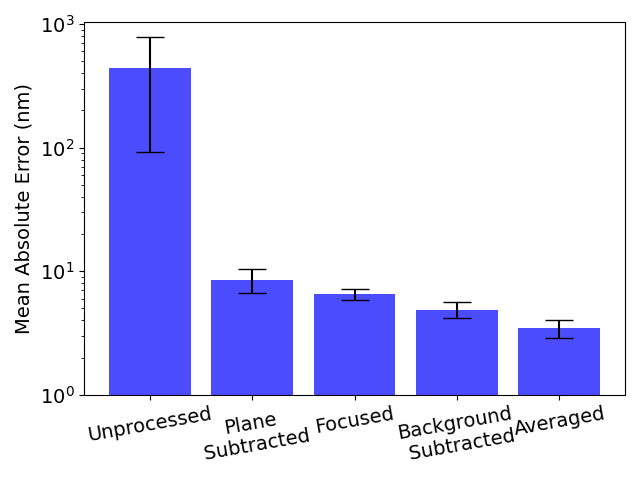
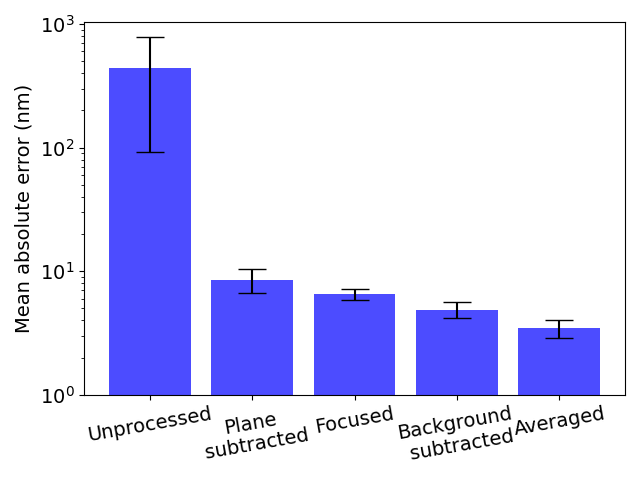
update images

Changed region(s): [[0.0, 0.1562, 0.0625, 0.7188], [0.625, 0.875, 0.8125, 0.9688], [0.3125, 0.875, 0.5, 0.9688]]

diff --git a/Graphes_Images/src/plot_results_segmentation.py b/Graphes_Images/src/plot_results_segmentation.py
@@ -9,6 +9,7 @@ import matplotlib.pyplot as plt
 import numpy as np
 import tifffile
 from skimage.morphology import binary_dilation
+from skimage.registration import phase_cross_correlation
 import json
 import cv2
 
@@ -59,10 +60,12 @@ for e in range(len(experiment_names)):
                 
                 mean_bac.append(np.mean(image_unfocused_flattened[mask])*794/(2*np.pi))
                 points_bac.append(len(mask[mask==True]))
-
+        print(f'start {i}')
+# mean(mae_unflattend) = 437.5763142363454 (348.1224687131989), mean(mae_flattend) = 6.555890270638546 (0.6622838564051792)
 #%%
 ######################## flatten image ######################
-filename = 'F3_20230406_2023-04-06 11-07-24_00002_00003_00002_Holograms_00050_holo.tif'
+filename = 'F3_20230406_2023-04-06 11-07-24_00001_00001_00001_Holograms_00050_holo.tif'
+
 image_uu = tifffile.imread(base_dir + os.sep + 'unfocused_unflattened' + os.sep + filename)*794/(2*np.pi)
 image_uf = tifffile.imread(base_dir + os.sep + 'unfocused_flattened' + os.sep + filename)*794/(2*np.pi)
 plot_dif(image_uu, image_uf)
@@ -70,8 +73,8 @@ plot_dif(image_uu, image_uf)
 #%%
 ######################## focus point numerical analysis #######################
 focus_offsets = []
-mean_difs = []
-std_difs = []
+difs_bacteria = []
+mea_difs_pixels = []
 mean_bac = []
 points_bac = []
 data_file_dir = r'F:\test_images\data_files'
@@ -102,10 +105,12 @@ for e in range(len(experiment_names)):
                 image_focused_flattened = tifffile.imread(base_dir + os.sep + 'focused_flattened' + os.sep + filename)
                 dif = (image_focused_flattened-image_unfocused_flattened)[mask]*794/(2*np.pi)
                 points_bac.append(len(dif))
-                std_difs.append(np.std(dif))
-                mean_difs.append(np.mean(dif))
-                mean_bac.append(np.mean(image_focused_flattened[mask]))
+                mea_difs_pixels.append(np.mean(np.abs(dif)))
+                difs_bacteria.append(np.mean(dif))
+                mean_bac.append(np.mean(image_focused_flattened[mask])*794/(2*np.pi))
         print(f'position {i} done')
+# np.mean(np.abs(focus_offsets)) = 0.06565876676394965 (0.06526685939550575), np.mean(np.abs(difs_bacteria)) = 0.3241210041515854 ( 0.782255995976346)
+# np.mean(mea_difs_pixels) = 1.9647389743949002 (1.7299677011264283), np.mean(mean_bac) = 26.92346201646424 (3.354683722592203)
 #%%
 ######################## focus point image ######################
 # Extreme example of focus offset
@@ -145,9 +150,11 @@ for e in range(len(experiment_names)):
                 
                 mean_bac.append(np.mean(image_without_background[mask])*794/(2*np.pi))
                 points_bac.append(len(mask[mask==True]))
+# np.mean(mae_ff) = 6.555953083727898 (0.6619066701507784), np.mean(mae_wb) = 4.890570396629716 (0.7166991405623114)
+
 #%%
 ######################## background image ######################
-filename = 'F3_20230406_2023-04-06 11-07-24_00007_00003_00003_Holograms_00000_holo.tif'
+filename = 'F3_20230406_2023-04-06 11-07-24_00001_00001_00001_Holograms_00050_holo.tif'
 
 image_without_background = tifffile.imread(base_dir + os.sep + 'without_background' + os.sep + filename)*794/(2*np.pi)
 image_ff = tifffile.imread(base_dir + os.sep + 'focused_flattened' + os.sep + filename)*794/(2*np.pi)
@@ -155,8 +162,8 @@ plot_dif(image_ff, image_without_background, cbar_title_dist=-105)
 
 #%%
 ######################## averaging numerical analysis #######################
-mean_difs = []
-mae_difs = []
+mae_wb_a = []
+mae_a = []
 mean_bac = []
 points_bac = []
 data_file_dir = r'F:\test_images\data_files'
@@ -179,21 +186,56 @@ for e in range(len(experiment_names)):
             image_averaged = tifffile.imread(base_dir + os.sep + 'averaged' + os.sep + filename_averaged)
             mask = image_averaged>0.25
             mask = binary_dilation(binary_dilation(binary_dilation(mask)))
+            avg = image_averaged[~mask]
             
-            image_wb = tifffile.imread(base_dir + os.sep + 'without_background' + os.sep + filename_unaveraged)[10:710,90:790]
-
-            dif = (image_averaged-image_wb)[mask]*794/(2*np.pi)
-            points_bac.append(len(dif))
-            mae_difs.append(np.mean(np.abs(dif)))
-            mean_difs.append(np.mean(dif))
-            mean_bac.append(np.mean(image_averaged[mask])*794/(2*np.pi))
+            image_without_background = tifffile.imread(base_dir + os.sep + 'without_background' + os.sep + filename_unaveraged)
+            shift_measured, error, diffphase = phase_cross_correlation(image_without_background[:700,:700], image_averaged)
+            if shift_measured[1]>100 or shift_measured[0]<0:
+                continue
+            image_without_background = image_without_background[int(shift_measured[0]):int(shift_measured[0])+700, int(shift_measured[1]):int(shift_measured[1])+700]
+            wb = image_without_background[~mask]
+            
+            mae_wb_a.append(np.mean(np.abs(wb-np.zeros_like(wb)))*794/(2*np.pi))
+            mae_a.append(np.mean(np.abs(avg-np.zeros_like(avg)))*794/(2*np.pi))
+            
+            mean_bac.append(np.mean(image_without_background[mask])*794/(2*np.pi))
+            points_bac.append(len(mask[mask==True]))
         print(f'position {i} done')
-
+# np.mean(mae_wb_a) = 5.062496793793493 (0.5678454313757011), np.mean(mae_a) = 3.441808529258636 (0.5794835287190342)
 #%%
 ######################## background image ######################
-filename_unaveraged = 'F3_20230406_2023-04-06 11-07-24_00001_00001_00001_Holograms_00075_holo.tif'
-filename_averaged = 'F3_20230406_2023-04-06 11-07-24_00001_00005_00005_Holograms_00075_holo.tif'
+filename_unaveraged = 'F3_20230406_2023-04-06 11-07-24_00001_00001_00001_Holograms_00050_holo.tif'
+filename_averaged = 'F3_20230406_2023-04-06 11-07-24_00001_00005_00005_Holograms_00050_holo.tif'
 
-image_without_background = tifffile.imread(base_dir + os.sep + 'without_background' + os.sep + filename_unaveraged)[10:710,90:790]*794/(2*np.pi)
+image_without_background = tifffile.imread(base_dir + os.sep + 'without_background' + os.sep + filename_unaveraged)*794/(2*np.pi)
 image_averaged = tifffile.imread(base_dir + os.sep + 'averaged' + os.sep + filename_averaged)*794/(2*np.pi)
+shift_measured, error, diffphase = phase_cross_correlation(image_without_background[:700,:700], image_averaged)
+image_without_background = image_without_background[int(shift_measured[0]):int(shift_measured[0])+700, int(shift_measured[1]):int(shift_measured[1])+700]
 plot_dif(image_without_background, image_averaged, cbar_title_dist=-105)
+
+#%%
+
+import matplotlib.pyplot as plt
+import numpy as np
+
+# Data
+labels = ['Unprocessed', 'Plane\n subtracted', 'Focused', 'Background\n subtracted', 'Averaged']
+mae_values = [439.5410532107403, 8.520692058122798, 6.555953083727898, 4.890570396629716, 3.441808529258636]
+std_values = [348.12676715705027, 1.852271223911539, 0.6619066701507784, 0.7166991405623114, 0.5794835287190342]
+
+# Create bar chart
+x_pos = np.arange(len(labels))
+plt.bar(x_pos, mae_values, yerr=std_values, align='center', alpha=0.7, capsize=10, color='blue')
+
+# Set y-axis to be logarithmic
+plt.yscale('log')
+
+plt.yticks([1, 10, 100, 1000], fontsize=14)
+# Add labels and title
+plt.xticks(x_pos, labels, rotation=10, fontsize=14)
+plt.ylabel('Mean absolute error (nm)', fontsize=14)
+# plt.title('Decrease in Noise Level Across Processing Steps')
+
+# Display the plot
+plt.tight_layout()
+plt.show()

diff --git a/src/delta/train_seg.py b/src/delta/train_seg.py
@@ -7,6 +7,7 @@ import os
 
 import sys
 from pathlib import Path
+import pickle
 
 from tensorflow.keras.callbacks import ModelCheckpoint, EarlyStopping
 
@@ -25,14 +26,17 @@ assets_path = dhm_cfg.delta_assets_path
 # Files:
 training_set = Path(assets_path, 'trainingsets', '2D', 'training', 'segmentation_set')
 validation_set = Path(assets_path, 'trainingsets', '2D', 'validation', 'segmentation_set')
-savefile = Path(assets_path, 'models', 'unet_pads_seg.hdf5')
+base_unet_path = Path(assets_path, 'models', 'unet_pads_seg.hdf5')
+save_path = r'C:\Users\SWW-Bc20\Documents\GitHub\Imaging-pipeline-for-DHM\tests\delta\train_segmentation'
+save_unet = save_path + os.sep + 'unet_pads_seg.hdf5'
+save_history = save_path + os.sep + 'noise_0.06_blur_2_ed_sigma_50.pkl'
 
 # Training parameters:
 batch_size = 1
-epochs = 300
-steps_per_epoch = 1000
+epochs = 10000
+steps_per_epoch = 10
 validation_steps = 50
-patience = 50
+patience = 100
 
 # Data generator parameters:
 train_data_gen_args = dict(
@@ -42,9 +46,9 @@ train_data_gen_args = dict(
     horizontal_flip=True,
     vertical_flip=True,
     illumination_voodoo=True,
-    gaussian_noise=0.003,
-    gaussian_blur=0.1,
-    # elastic_deformation={'sigma': 50, 'points': 3},
+    gaussian_noise=0.06,
+    gaussian_blur=2,
+    elastic_deformation={'sigma': 50, 'points': 3},
 )
 
 
@@ -69,12 +73,12 @@ myGene_val = trainGenerator_seg(
 )
 
 # Define model:
-model = unet_seg(pretrained_weights=savefile, input_size=delta_cfg.target_size_seg + (1,))
+model = unet_seg(pretrained_weights=base_unet_path, input_size=delta_cfg.target_size_seg + (1,))
 model.summary()
 
 # Callbacks:
 model_checkpoint = ModelCheckpoint(
-    savefile, monitor="val_loss", verbose=2, save_best_only=True
+    save_unet, monitor="val_loss", verbose=2, save_best_only=True
 )
 early_stopping = EarlyStopping(monitor="val_loss", mode="min", verbose=2, patience=patience)
 
@@ -88,3 +92,5 @@ history = model.fit(
     callbacks=[model_checkpoint, early_stopping],
 )
 
+with open(save_history, 'wb') as file_pi:
+    pickle.dump(history.history, file_pi)

diff --git a/Graphes_Images/src/hyperparameter_tuning.py b/Graphes_Images/src/hyperparameter_tuning.py
@@ -7,6 +7,8 @@ Created on Wed Aug 23 14:22:54 2023
 import pickle
 import os
 import matplotlib.pyplot as plt
+import seaborn as sns
+import numpy as np
 
 path = r'C:\Users\SWW-Bc20\Documents\GitHub\Imaging-pipeline-for-DHM\tests\delta\data_augmentation'
 historie_files = [h for h in os.listdir(path) if h.endswith('.pkl')]
@@ -19,4 +21,19 @@ for h in historie_files:
 for i in range(len(histories)):
     plt.plot(histories[i]['val_loss'], label=historie_files[i])
 plt.legend()
+plt.show()
+#%%
+names = np.array(historie_files).reshape(3,3)
+data = np.array([np.min(histories[i]['val_loss']) for i in range(9)]).reshape(3,3)
+
+
+ax = sns.heatmap(data, annot=True, fmt=".1f", cmap='coolwarm', 
+                 xticklabels=['0.0024, 0.08', '0.012, 0.4', '0.06, 2'], 
+                 yticklabels=['0', '10', '50'],
+                 annot_kws={"size": 16}) # Font size of annotations
+
+plt.xlabel('Gaussian noise and blur', fontsize=16) # Font size of X-axis label
+plt.ylabel('Sigma of elastic deformation', fontsize=16) # Font size of Y-axis label
+plt.xticks(fontsize=14) # Font size of x-tick labels
+plt.yticks(fontsize=14) # Font size of y-tick labels
 plt.show()
